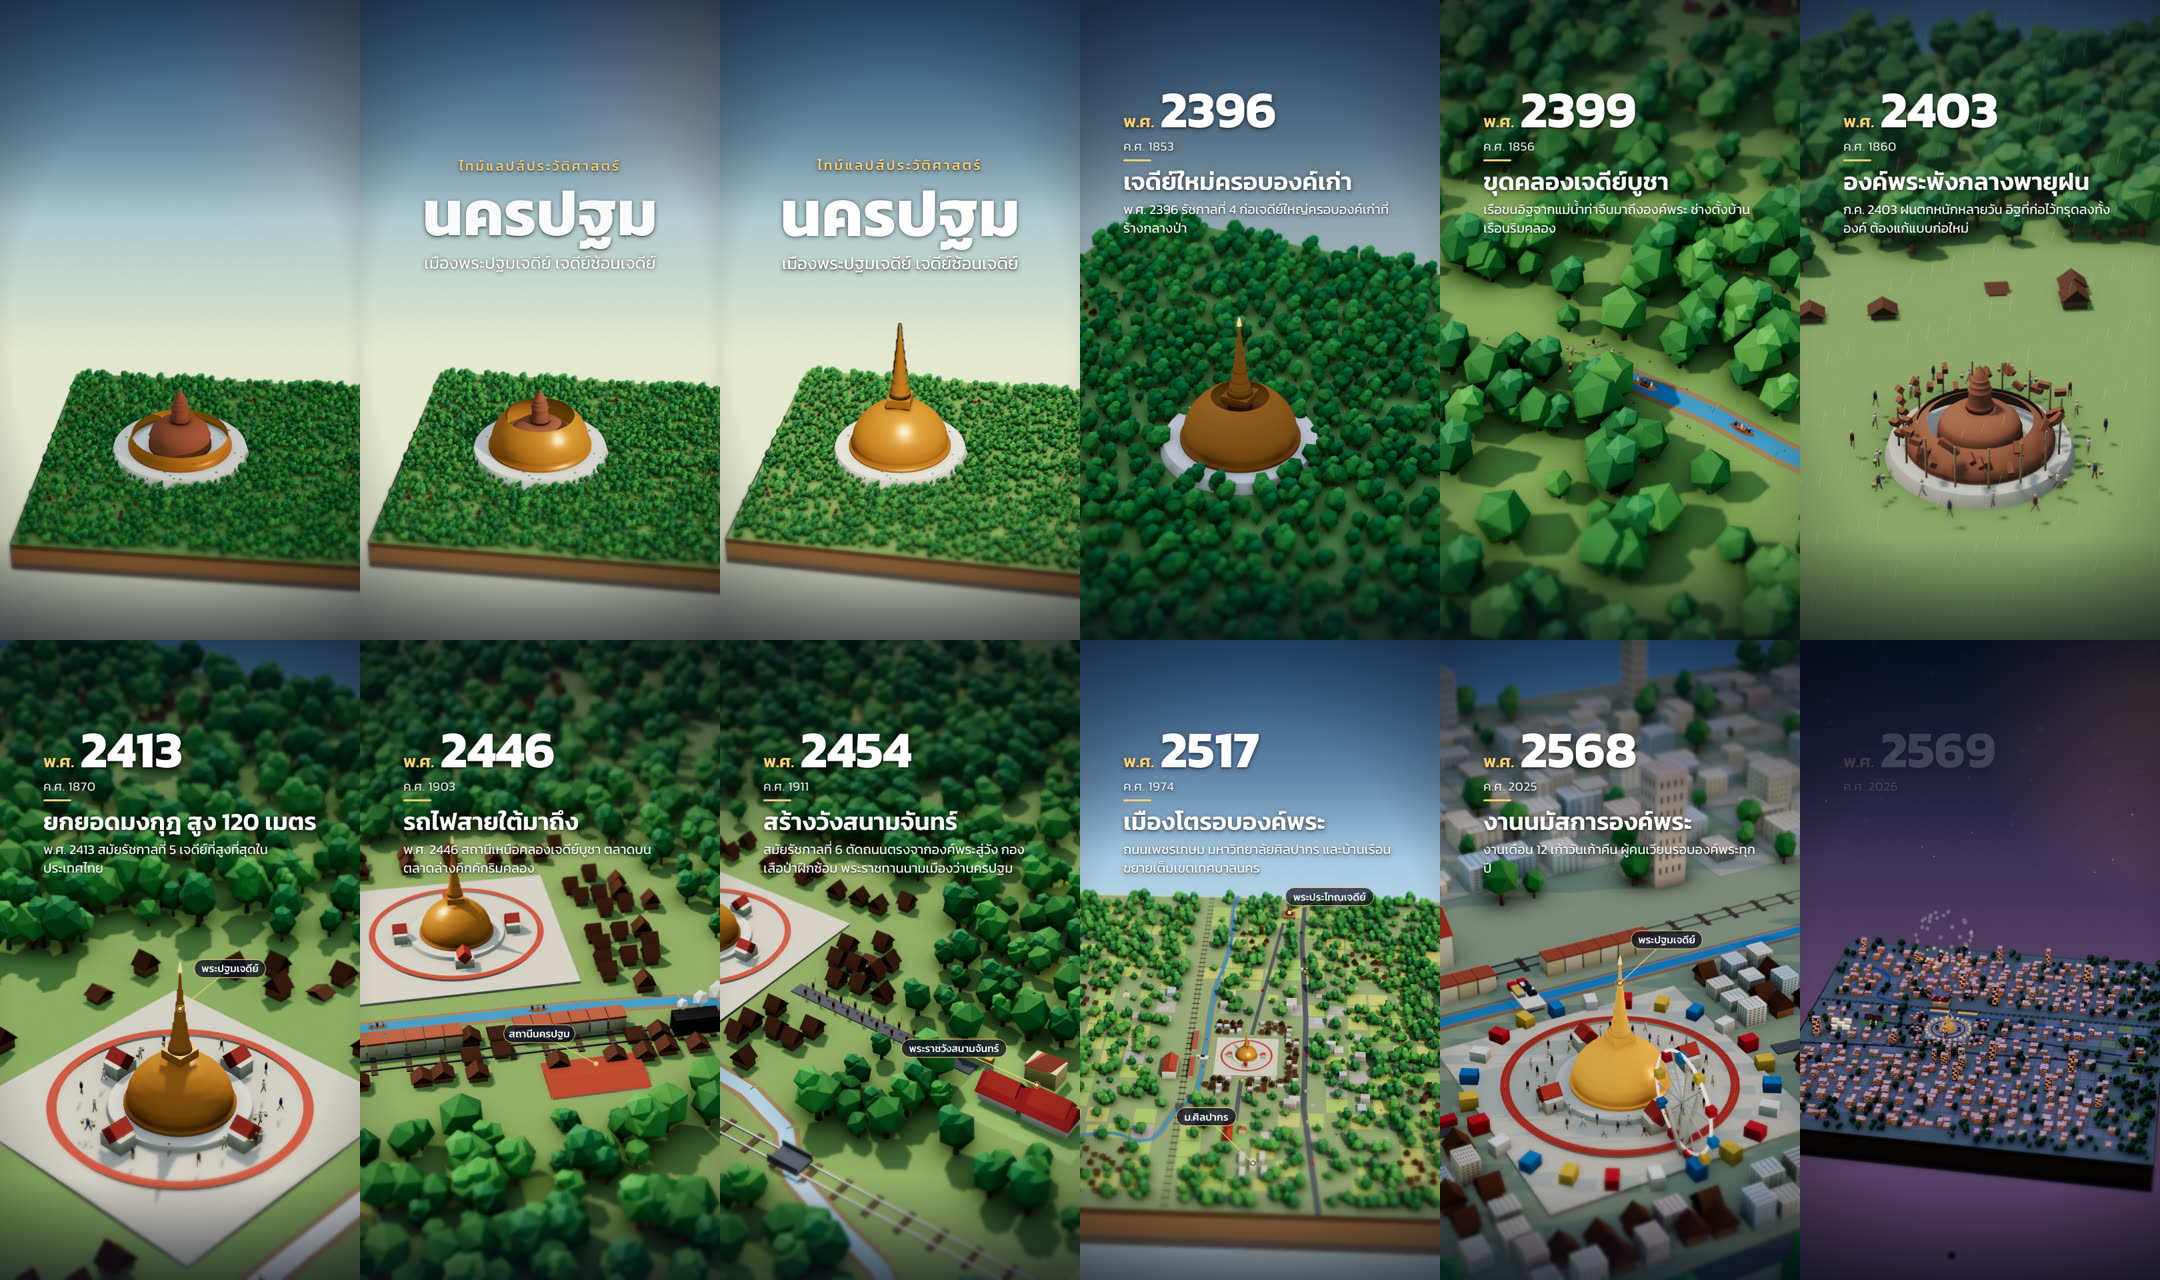
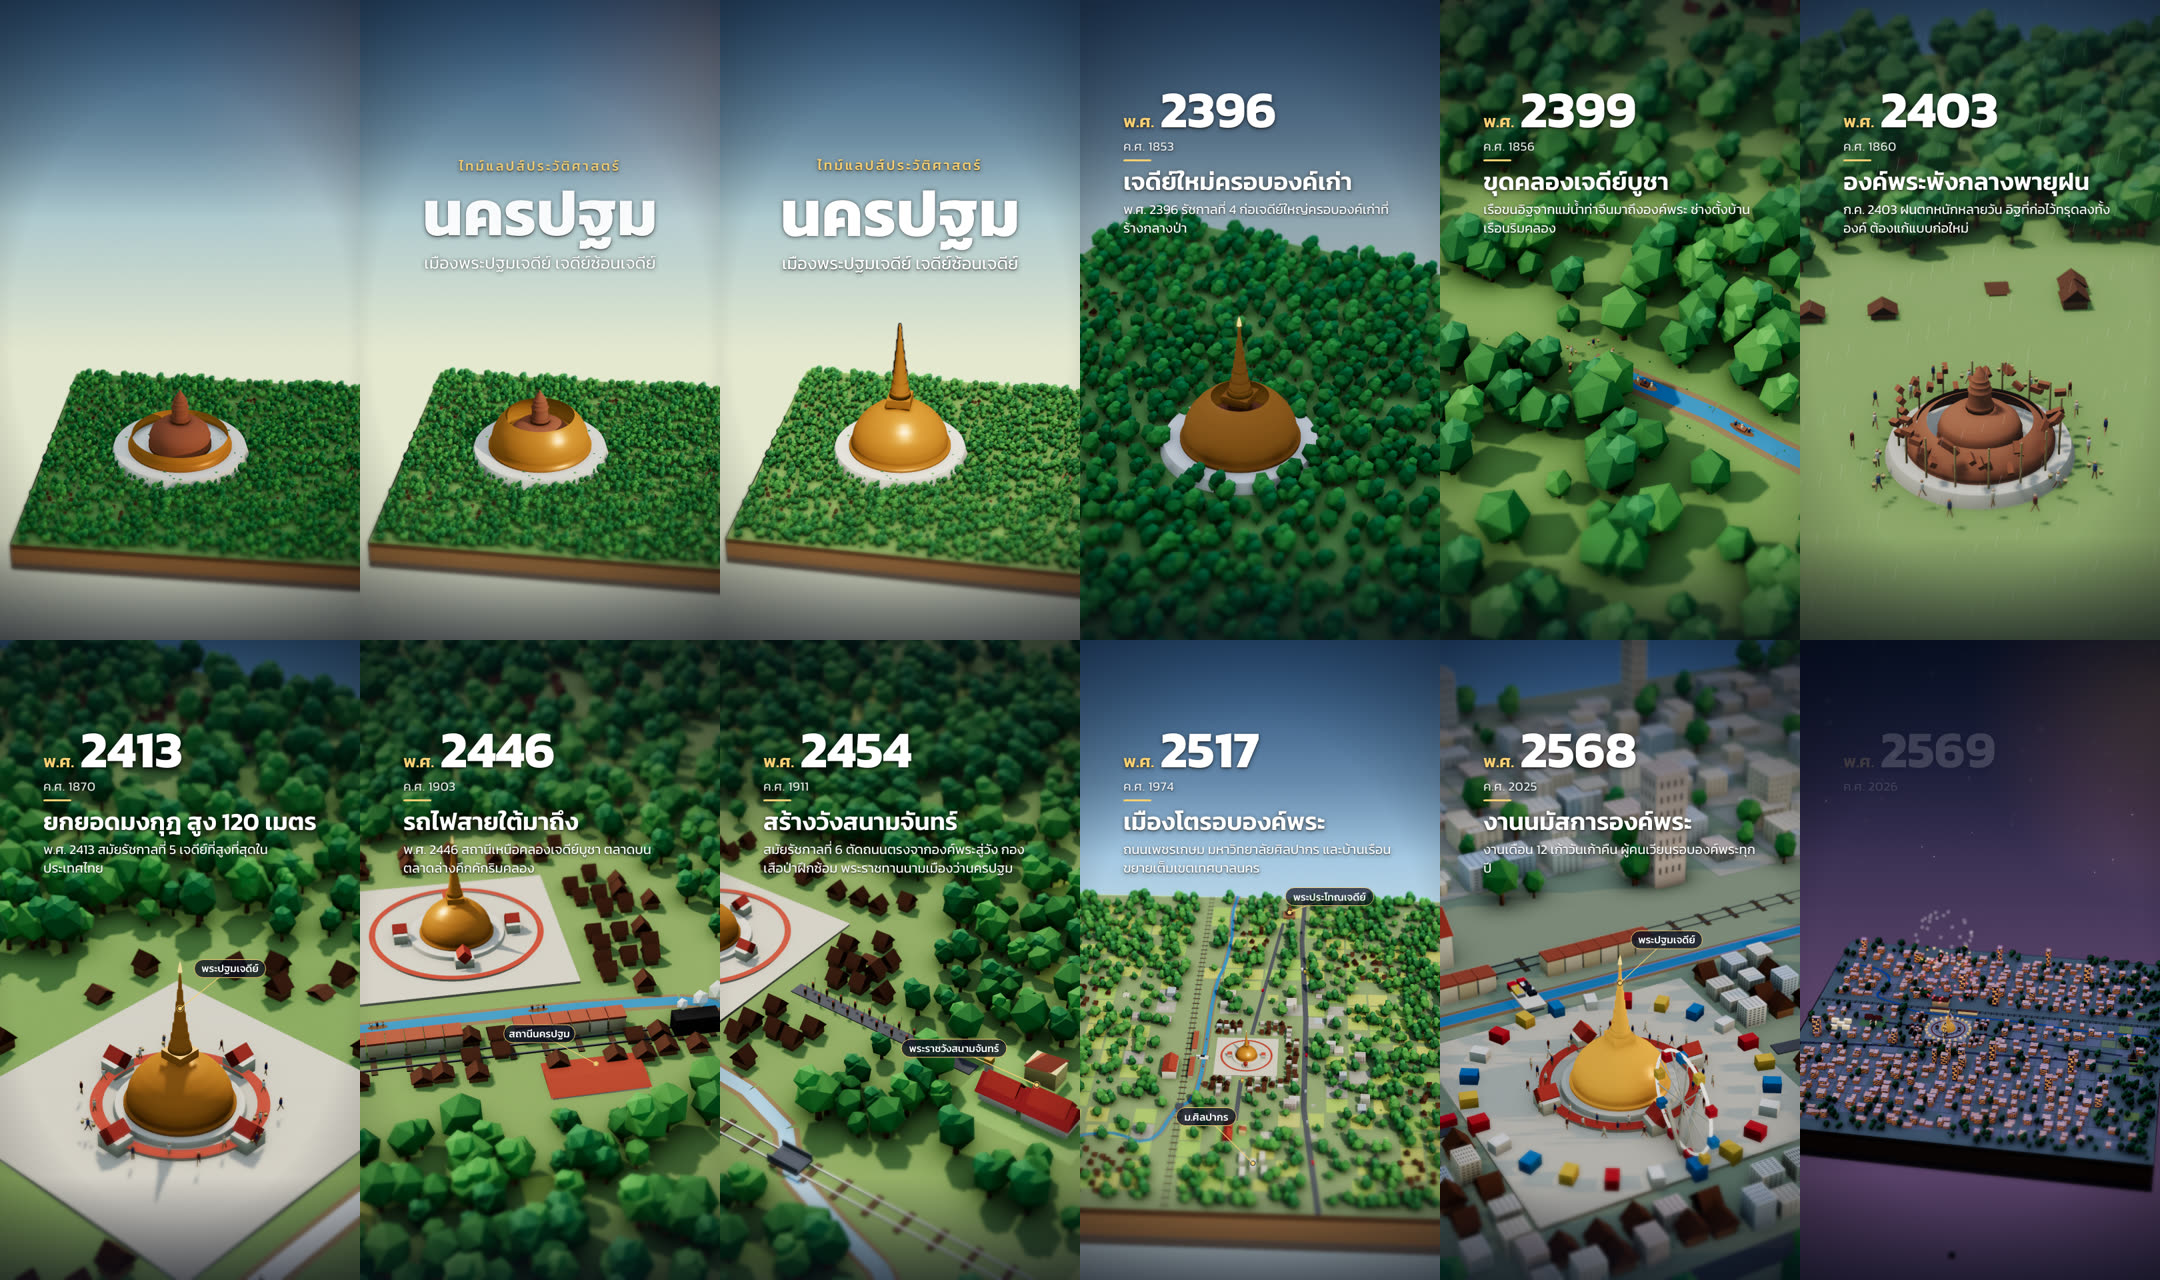
Nakhon Pathom: the chedi's rings to [local]'s measurements
On Esri imagery the bell is ~80 m across (75 kept), the upper terrace ~92 m, the
round gallery ~126 m (OSM's 129-m polygon) and the only square is the ~250 m
temple wall; Gemini's 179-m gallery fits nothing, so the gallery now hugs the
bell. Contact sheet refreshed at 21 and 48 s.

Changed region(s): [[0.0, 0.75, 0.1861, 1.0], [0.6514, 0.75, 0.8375, 0.9688]]

diff --git a/src/cities/nakhonpathom/chedi.tsx b/src/cities/nakhonpathom/chedi.tsx
@@ -122,35 +122,36 @@ export const Chedi: React.FC<{shell: number; spire: number; crown: number; gold:
   );
 };
 
-/** the round base, and from `court` the square terrace, the round cloister and the four viharns */
+/** the round upper terrace (~92 m), and from `court` the walled square (~250 x 240 m), the round
+ *  gallery and the four viharns ([local]'s measurements on Esri imagery, PR #76) */
 export const Terrace: React.FC<{court: number}> = ({court}) => (
   <group>
     <mesh position={[0, 0.03, 0]} receiveShadow castShadow>
-      <cylinderGeometry args={[0.42, 0.44, 0.06, 64]} />
+      <cylinderGeometry args={[0.38, 0.4, 0.06, 64]} />
       <meshStandardMaterial color={LIME} roughness={0.9} />
     </mesh>
     {court > 0.02 && (
       <group scale={[1, court, 1]}>
         <mesh position={[0, 0.0125, 0]} receiveShadow>
-          <boxGeometry args={[1.85, 0.025, 1.85]} />
+          <boxGeometry args={[2.05, 0.025, 2.0]} />
           <meshStandardMaterial color="#cfc6b0" roughness={0.95} />
         </mesh>
-        {/* the round cloister (562 m round): a low wall under a red roof */}
+        {/* the round gallery (คตพระระเบียง, ~107-126 m across, measured on imagery): a low wall under a red roof */}
         <mesh position={[0, 0.04, 0]}>
-          <cylinderGeometry args={[0.745, 0.745, 0.05, 96, 1, true]} />
+          <cylinderGeometry args={[0.5, 0.5, 0.05, 96, 1, true]} />
           <meshStandardMaterial color={LIME} roughness={0.9} side={THREE.DoubleSide} />
         </mesh>
         <mesh position={[0, 0.066, 0]} rotation-x={-Math.PI / 2}>
-          <ringGeometry args={[0.715, 0.775, 96]} />
+          <ringGeometry args={[0.45, 0.525, 96]} />
           <meshStandardMaterial color={ROOF} roughness={0.8} side={THREE.DoubleSide} />
         </mesh>
         {[0, 1, 2, 3].map((q) => (
           <group key={q} rotation-y={(q * Math.PI) / 2}>
-            <mesh position={[0, 0.07, 0.5]} castShadow>
+            <mesh position={[0, 0.07, 0.52]} castShadow>
               <boxGeometry args={[0.16, 0.09, 0.12]} />
               <meshStandardMaterial color={LIME} roughness={0.9} />
             </mesh>
-            <mesh position={[0, 0.135, 0.5]} rotation-z={Math.PI / 4} castShadow>
+            <mesh position={[0, 0.135, 0.52]} rotation-z={Math.PI / 4} castShadow>
               <boxGeometry args={[0.09, 0.09, 0.13]} />
               <meshStandardMaterial color={ROOF} roughness={0.8} />
             </mesh>

diff --git a/docs/briefs/nakhonpathom.md b/docs/briefs/nakhonpathom.md
@@ -44,9 +44,11 @@ announced old towns, and OSM pins). Look: shader only. Length: 60 s. Standard: s
 | thing | real | units |
 |---|---|---|
 | chedi height | 120.45 m | 1.5 at true scale; drawn at legend scale for the cover (see below) |
-| chedi bell base | **ขัดแย้ง:** Gemini gives Ø 56.6 m *and* 235.5 m round (= Ø 75 m); not found on the web. Working figure Ø ~75 m (photos put the bell's width at ~0.6 of the height); [local] to measure on satellite. The style frames used 56.6 | 0.9 |
-| round cloister | Ø ~179 m | 2.2 (so OSM's 129-m polygon is neither the base nor the cloister: use these) |
-| temple square inside the four roads | ~485 × 485 m | 6 |
+| chedi bell base | Ø ~80 m measured ([local], Esri z19, ±6), drawn 75 (235.5/π); Gemini's 56.6 is wrong | 0.9 |
+| round upper terrace (ลานประทักษิณบน) | Ø ~92 m measured | 1.15 |
+| round gallery (คตพระระเบียง) with the four viharns | Ø ~107 inner / ~126 outer measured; OSM's 129-m polygon is this ring. Gemini's 562-m perimeter fits nothing | 1.6 |
+| temple wall (the only square on imagery) | ~250 × 240 m, turned ~8° from north (drawn square to north) | 3.1 |
+| temple grounds inside the four roads | ~485 × 485 m (Gemini, 148 rai) | 6 |
 | old inner chedi (Dvaravati stupa + Khmer prang) | ~37 m stupa, ~84 m with the prang (Gemini; two figures) | — |
 | Khlong Chedi Bucha | 10–16 m wide, ~12–13 km to the Tha Chin | 0.2 (draw at the engine's minimum river width) |
 | Dvaravati moat | 2,000 × 3,600 m, W edge ~2 km E of the chedi | 25 × 45 |
